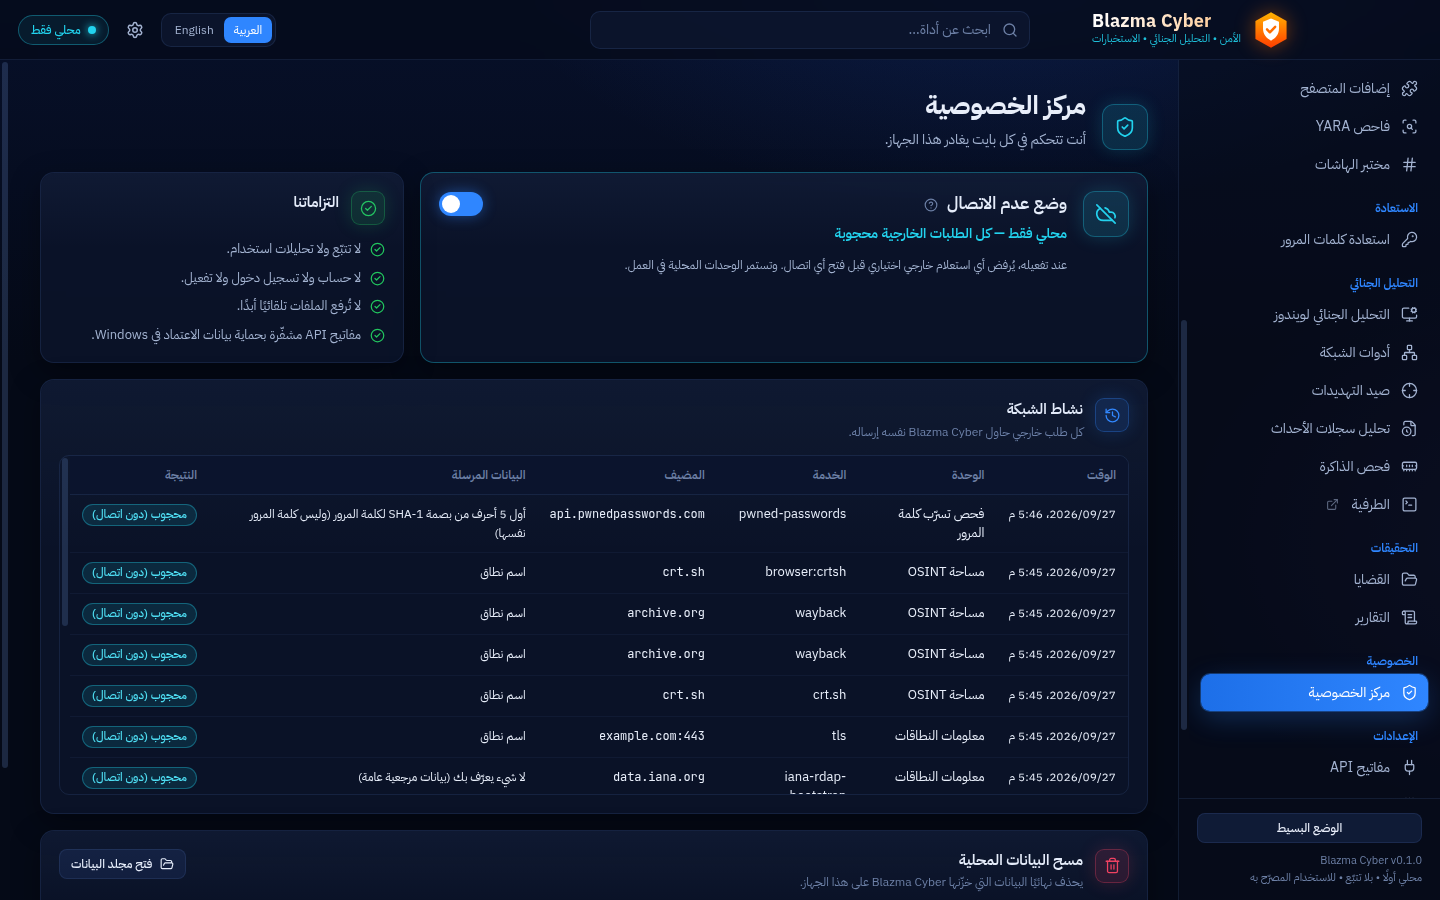
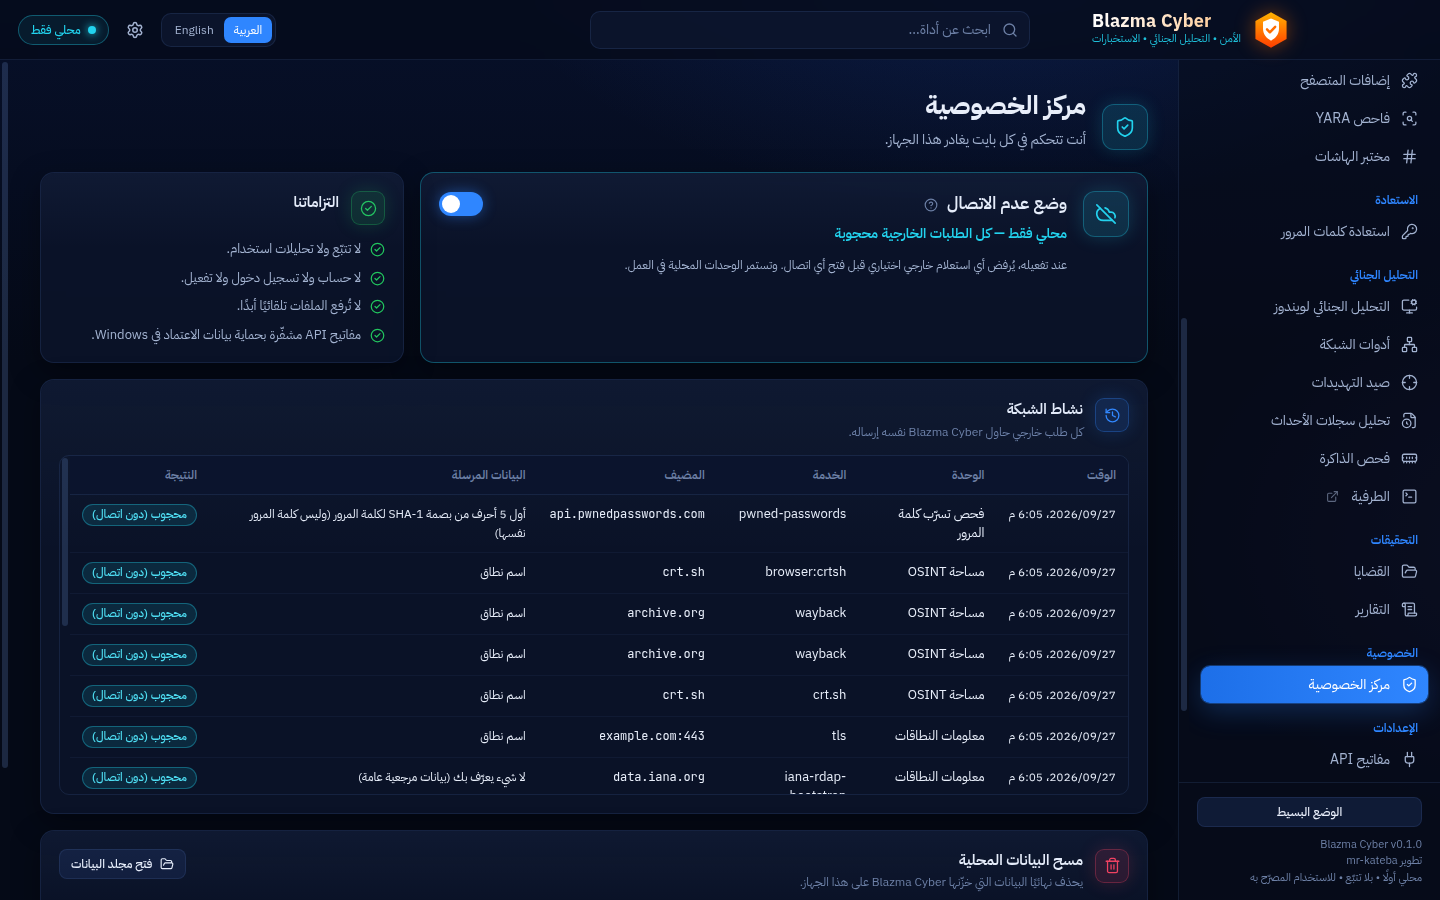
Show the developer (mr-kateba) in the app, installer and README; repository renamed to Blazma-Cyber
- About: Developer row and copyright line; language picker and sidebar
  footer show "By mr-kateba" / "تطوير mr-kateba"
- Installer/exe metadata: copyright and package author
- Links, update check and attestation commands use mr-kateba/Blazma-Cyber

Changed region(s): [[0.8125, 0.2178, 1.0, 0.9644], [0.9062, 0.0622, 1.0, 0.1867]]

diff --git a/tests/updates.test.ts b/tests/updates.test.ts
@@ -21,8 +21,8 @@ describe('Version comparison', () => {
   });
 
   it('picks the newest real release; drafts and non-version tags are ignored; the URL is built, never taken from the answer', () => {
-    expect(newestRelease(RELEASES, 'mr-kateba/-BLAZMA-CYBER')).toEqual({
-      tag: 'v0.2.0-beta.1', name: 'Beta 2', url: 'https://github.com/mr-kateba/-BLAZMA-CYBER/releases/tag/v0.2.0-beta.1', publishedAt: '2026-10-01T00:00:00Z', prerelease: true,
+    expect(newestRelease(RELEASES, 'mr-kateba/Blazma-Cyber')).toEqual({
+      tag: 'v0.2.0-beta.1', name: 'Beta 2', url: 'https://github.com/mr-kateba/Blazma-Cyber/releases/tag/v0.2.0-beta.1', publishedAt: '2026-10-01T00:00:00Z', prerelease: true,
     });
     expect(newestRelease({ message: 'Not Found' }, 'x/y')).toBeNull();
   });
@@ -38,9 +38,9 @@ describe('Manual update check', () => {
     const f = vi.fn(async (_u: string) => new Response(JSON.stringify(RELEASES), { status: 200 }));
     const { g, log } = gate(f);
     const r = await checkForUpdates(g, '0.1.0');
-    expect(f.mock.calls[0]![0]).toBe('https://api.github.com/repos/mr-kateba/-BLAZMA-CYBER/releases?per_page=20');
+    expect(f.mock.calls[0]![0]).toBe('https://api.github.com/repos/mr-kateba/Blazma-Cyber/releases?per_page=20');
     expect(r).toMatchObject({ current: '0.1.0', newer: true, latest: { tag: 'v0.2.0-beta.1' } });
-    expect(lastReleaseUrl()).toBe('https://github.com/mr-kateba/-BLAZMA-CYBER/releases/tag/v0.2.0-beta.1');
+    expect(lastReleaseUrl()).toBe('https://github.com/mr-kateba/Blazma-Cyber/releases/tag/v0.2.0-beta.1');
     expect(log[0]).toMatchObject({ host: 'api.github.com', dataKind: 'privacy.data.none', outcome: 'allowed' });
     expect((await checkForUpdates(gate(f).g, '0.2.0')).newer).toBe(false); // the final 0.2.0 is newer than its beta
   });

diff --git a/src/renderer/pages/Settings.tsx b/src/renderer/pages/Settings.tsx
@@ -1,6 +1,6 @@
 import { useEffect, useState } from 'react';
 import { Cpu, Info, KeyRound, Lock, RefreshCw, Settings as Gear, ShieldCheck } from 'lucide-react';
-import type { ApiKeyService, AppInfo, Settings, UpdateCheck } from '../../shared/api';
+import { APP_AUTHOR, APP_COPYRIGHT_YEAR, type ApiKeyService, type AppInfo, type Settings, type UpdateCheck } from '../../shared/api';
 import { Badge, Card, IconTile, Ltr, Notice, Tabs, Toggle, usePoll } from '../components/ui';
 import { useApp } from '../components/AppContext';
 import { useI18n } from '../i18n/I18nProvider';
@@ -271,6 +271,7 @@ function About({ info }: { info: AppInfo | null }) {
       {info && (
         <dl className="kv">
           <dt>{t('settings.version')}</dt><dd><Ltr>{info.version}</Ltr></dd>
+          <dt>{t('settings.developer')}</dt><dd><Ltr>{APP_AUTHOR}</Ltr></dd>
           <dt>{t('settings.platform')}</dt><dd><Ltr>{info.platform}</Ltr></dd>
           <dt>{t('settings.electron')}</dt><dd><Ltr>{info.electron}</Ltr></dd>
           <dt>{t('settings.dataDir')}</dt><dd><Ltr mono breakAll className="small">{info.dataDir}</Ltr>{info.portable && <div className="tiny dim">{t('settings.portableNote')}</div>}</dd>
@@ -278,6 +279,7 @@ function About({ info }: { info: AppInfo | null }) {
         </dl>
       )}
       <UpdateCheckRow />
+      <p className="small" style={{ marginBottom: 4 }}>{t('settings.copyright', { year: APP_COPYRIGHT_YEAR, author: APP_AUTHOR })}</p>
       <p className="small dim" style={{ marginBottom: 0 }}>{t('settings.license')}</p>
     </Card>
   );

diff --git a/src/renderer/pages/LanguagePicker.tsx b/src/renderer/pages/LanguagePicker.tsx
@@ -1,7 +1,7 @@
 import { useState } from 'react';
 import { Languages } from 'lucide-react';
 import type { Lang } from '../../core/i18n';
-import type { UiMode } from '../../shared/api';
+import { APP_AUTHOR, type UiMode } from '../../shared/api';
 import { Logo } from '../components/Logo';
 import { translatorFor } from '../i18n/I18nProvider';
 
@@ -20,6 +20,7 @@ export function LanguagePicker({ onPick }: { onPick: (l: Lang, mode: UiMode) => 
           <Logo size={72} className="brand-logo" />
           <div className="brand-name" style={{ fontSize: 26, marginTop: 14 }}>Blazma Cyber</div>
           <div className="brand-tag" style={{ marginTop: 4 }}>{t('app.tagline')}</div>
+          <div className="tiny dim" style={{ marginTop: 6 }}>{t('app.byline', { author: APP_AUTHOR })}</div>
           <h1 style={{ marginTop: 26, fontSize: 22, display: 'flex', gap: 10, justifyContent: 'center', alignItems: 'center' }}>
             <Languages size={22} color="var(--cyan)" />
             <span>{ar('langPicker.title')}</span>

diff --git a/src/renderer/Shell.tsx b/src/renderer/Shell.tsx
@@ -7,6 +7,7 @@ import { useI18n } from './i18n/I18nProvider';
 import { findItem, labelKeyFor, visibleNav, type PageId } from './nav';
 import { DownloadsOpenListener } from './components/DownloadsWatch';
 import { Dashboard } from './pages/Dashboard';
+import { APP_AUTHOR } from '../shared/api';
 
 // Every page except the dashboard is loaded on first visit (smaller startup bundle).
 const FileAnalyzer = lazy(() => import('./pages/FileAnalyzer').then((m) => ({ default: m.FileAnalyzer })));
@@ -293,6 +294,7 @@ export function Shell() {
             <div>
               <span className="ltr">Blazma Cyber v0.1.0</span>
             </div>
+            <div>{t('app.byline', { author: APP_AUTHOR })}</div>
             <div>{t('app.footer')}</div>
           </div>
         </aside>

diff --git a/src/main/services/updates.ts b/src/main/services/updates.ts
@@ -6,7 +6,7 @@ import type { NetworkGate } from '../../core/network-gate';
 import { compareSemver, newestRelease, parseSemver } from '../../core/version';
 import type { UpdateCheck } from '../../shared/api';
 
-export const UPDATE_REPO = 'mr-kateba/-BLAZMA-CYBER';
+export const UPDATE_REPO = 'mr-kateba/Blazma-Cyber';
 
 export class UpdateError extends Error {
   constructor(readonly code: string) {

diff --git a/src/shared/api.ts b/src/shared/api.ts
@@ -302,6 +302,10 @@ export interface TaskProgress {
   stage: 'hashing' | 'analyzing' | 'scanning' | 'done';
 }
 
+/** The developer shown in About, the first-launch screen and the installer metadata. */
+export const APP_AUTHOR = 'mr-kateba';
+export const APP_COPYRIGHT_YEAR = 2026;
+
 export interface AppInfo {
   version: string;
   platform: string;

diff --git a/README.ar.md b/README.ar.md
@@ -2,6 +2,8 @@
 
 # Blazma Cyber — الشرح بالعربي
 
+تطوير **[mr-kateba](https://github.com/mr-kateba)**
+
 **الأمن • التحليل الجنائي • الاستخبارات**
 
 برنامج سطح مكتب لـ Windows 10/11 للأمن السيبراني الدفاعي: تحليل الملفات، وفحص Defender وYARA،
@@ -17,16 +19,16 @@
 ## الطريقة 1: تنزيل المثبّت الجاهز (الأسهل)
 
 ### 1) التنزيل
-- افتح صفحة **[الإصدارات (Releases)](https://github.com/mr-kateba/-BLAZMA-CYBER/releases)** — تظهر أيضًا في
+- افتح صفحة **[الإصدارات (Releases)](https://github.com/mr-kateba/Blazma-Cyber/releases)** — تظهر أيضًا في
   يمين صفحة المستودع الرئيسية تحت **Releases**.
 - نزّل `BLAZMA-CYBER-0.1.0-x64-setup.exe` من قسم **Assets**. لا يحتاج تسجيل دخول.
 - رابط مباشر لآخر إصدار تجريبي (v0.1.0-beta.1):
-  https://github.com/mr-kateba/-BLAZMA-CYBER/releases/download/v0.1.0-beta.1/BLAZMA-CYBER-0.1.0-x64-setup.exe
+  https://github.com/mr-kateba/Blazma-Cyber/releases/download/v0.1.0-beta.1/BLAZMA-CYBER-0.1.0-x64-setup.exe
 
 #### (اختياري) تحقّق أن الملف سليم وأصلي
 - **البصمة:** في PowerShell: `Get-FileHash .\BLAZMA-CYBER-0.1.0-x64-setup.exe -Algorithm SHA256`
   ويجب أن تطابق القيمة في ملف `SHA256SUMS.txt` وفي صفحة الإصدار.
-- **شهادة مصدر البناء (من GitHub):** `gh attestation verify .\BLAZMA-CYBER-0.1.0-x64-setup.exe -R mr-kateba/-BLAZMA-CYBER`
+- **شهادة مصدر البناء (من GitHub):** `gh attestation verify .\BLAZMA-CYBER-0.1.0-x64-setup.exe -R mr-kateba/Blazma-Cyber`
   تثبت أن الملف بُني من هذا المستودع عبر GitHub Actions ولم يُعدَّل بعدها (تحتاج أداة [GitHub CLI](https://cli.github.com)).
 
 > نسخ أحدث للمطوّرين تُبنى تلقائيًا بعد كل تعديل في **Actions → CI → Artifacts →
@@ -61,7 +63,7 @@
 **المتطلبات:** Windows 10/11 64-bit، و[Node.js 20 أو أحدث](https://nodejs.org) (يُفضّل 22 LTS)، وGit.
 
 ```powershell
-git clone https://github.com/mr-kateba/-BLAZMA-CYBER.git Blazma-Cyber
+git clone https://github.com/mr-kateba/Blazma-Cyber.git Blazma-Cyber
 cd Blazma-Cyber
 .\Start-Blazma.ps1 -Install     # أول مرة: يثبّت الاعتماديات، يبني البرنامج، ويشغّله
 .\Start-Blazma.ps1              # المرات التالية
@@ -140,7 +142,7 @@ npm run dist:win     # الناتج: release\Blazma-Cyber-<الإصدار>-x64-s
 مخصّص للاستخدام الدفاعي على الأجهزة والشبكات والملفات التي تملكها أو المصرّح لك بفحصها.
 
 ## الترخيص
-حقوق النشر © 2026 mr-kateba ومساهمو Blazma Cyber.
+حقوق النشر © 2026 [mr-kateba](https://github.com/mr-kateba).
 
 البرنامج مفتوح المصدر بترخيص **GNU GPL الإصدار 3 أو أحدث** ([LICENSE](LICENSE)):
 - تقدر تستخدمه وتنسخه وتعدّله وتوزّعه بحرية.

diff --git a/.github/release-notes.md b/.github/release-notes.md
@@ -2,7 +2,7 @@
 
 ## إصدار تجريبي — Blazma Cyber
 
-منصة أمن سيبراني دفاعي لـ Windows 10/11، محلية أولًا، بالعربي والإنجليزي. الشرح الكامل: [README.ar.md](https://github.com/mr-kateba/-BLAZMA-CYBER/blob/claude/vibrant-sagan-xxz92l/README.ar.md)
+منصة أمن سيبراني دفاعي لـ Windows 10/11، محلية أولًا، بالعربي والإنجليزي. الشرح الكامل: [README.ar.md](https://github.com/mr-kateba/Blazma-Cyber/blob/claude/vibrant-sagan-xxz92l/README.ar.md)
 
 ### التثبيت
 1. نزّل `Blazma-Cyber-*-x64-setup.exe` من الملفات بالأسفل.
@@ -13,7 +13,7 @@
 
 ### التحقق من سلامة الملف
 - **شهادة مصدر البناء (Build provenance):** تثبت أن الملف بُني من هذا المستودع عبر GitHub Actions ولم يُعدَّل بعدها:
-  `gh attestation verify BLAZMA-CYBER-0.1.0-x64-setup.exe -R mr-kateba/-BLAZMA-CYBER`
+  `gh attestation verify BLAZMA-CYBER-0.1.0-x64-setup.exe -R mr-kateba/Blazma-Cyber`
 - **SHA-256:** قارن الناتج بالقيمة بالأسفل وبملف `SHA256SUMS.txt`:
   `Get-FileHash .\BLAZMA-CYBER-0.1.0-x64-setup.exe -Algorithm SHA256`
 
@@ -32,6 +32,6 @@ Privacy-first, local-first, bilingual (Arabic/English) defensive cybersecurity w
 
 - **Portable:** `Blazma-Cyber-*-x64-portable.zip` runs without installing (unzip anywhere, e.g. a USB drive); all data stays in `Blazma-data` next to the program.
 - **Unsigned** (no code-signing certificate yet): SmartScreen shows *Windows protected your PC* → **More info → Run anyway**. Per-user install, no administrator rights.
-- **Verify provenance:** `gh attestation verify BLAZMA-CYBER-0.1.0-x64-setup.exe -R mr-kateba/-BLAZMA-CYBER` (GitHub build-provenance attestation, Sigstore).
+- **Verify provenance:** `gh attestation verify BLAZMA-CYBER-0.1.0-x64-setup.exe -R mr-kateba/Blazma-Cyber` (GitHub build-provenance attestation, Sigstore).
 - **Verify integrity:** compare `Get-FileHash <file> -Algorithm SHA256` with `SHA256SUMS.txt` / the value below.
 - Verified automatically on real Windows (Server 2025) in CI; not yet hand-tested on a Windows 10/11 desktop (install/uninstall, title bar, Defender quick/full scans, real John/hashcat).

diff --git a/README.md b/README.md
@@ -6,6 +6,8 @@
 
 A privacy-first, local-first, bilingual (العربية / English) Windows cybersecurity workbench.
 
+By **[mr-kateba](https://github.com/mr-kateba)**
+
 **[الشرح بالعربي — التنزيل والتثبيت والتشغيل](README.ar.md)**
 
 </div>
@@ -102,10 +104,10 @@ The launcher checks prerequisites and prints clear errors (English + Arabic). It
 anything unless you pass `-Install`.
 
 ## Download the installer
-Get it from **[Releases](https://github.com/mr-kateba/-BLAZMA-CYBER/releases)** (latest pre-release:
-[`BLAZMA-CYBER-0.1.0-x64-setup.exe`](https://github.com/mr-kateba/-BLAZMA-CYBER/releases/download/v0.1.0-beta.1/BLAZMA-CYBER-0.1.0-x64-setup.exe)).
+Get it from **[Releases](https://github.com/mr-kateba/Blazma-Cyber/releases)** (latest pre-release:
+[`BLAZMA-CYBER-0.1.0-x64-setup.exe`](https://github.com/mr-kateba/Blazma-Cyber/releases/download/v0.1.0-beta.1/BLAZMA-CYBER-0.1.0-x64-setup.exe)).
 It is unsigned, so SmartScreen shows "Windows protected your PC" → **More info → Run anyway**.
-Verify it with `SHA256SUMS.txt` or `gh attestation verify <file> -R mr-kateba/-BLAZMA-CYBER`
+Verify it with `SHA256SUMS.txt` or `gh attestation verify <file> -R mr-kateba/Blazma-Cyber`
 (GitHub build provenance). Development builds: **Actions → CI → Artifacts** (sign-in, 14 days).
 Step-by-step in Arabic: [README.ar.md](README.ar.md).
 
@@ -161,7 +163,7 @@ Architecture: [docs/ARCHITECTURE.md](docs/ARCHITECTURE.md).
 Intended for defensive use on systems, networks and files you own or are authorized to assess.
 
 ## License
-Copyright © 2026 mr-kateba and Blazma Cyber contributors.
+Copyright © 2026 [mr-kateba](https://github.com/mr-kateba).
 
 Blazma Cyber is free software: you can redistribute it and/or modify it under the terms of the
 **GNU General Public License v3.0 or later** ([LICENSE](LICENSE)). It is distributed WITHOUT ANY

diff --git a/CLAUDE.md b/CLAUDE.md
@@ -183,3 +183,4 @@ API keys only via Electron `safeStorage` (DPAPI) — refuse to store if encrypti
 | 2026-09 | Updates: manual check only, link to the release page built in main (never the API's URL); no auto-download/installer | The app never downloads or runs binaries by itself; a signed-installer auto-update can come later |
 | 2026-09 | File/folder Defender scans use -DisableRemediation | Blazma reports; the user decides (quick/full follow Defender policy, stated in UI) |
 | 2026-09 | Branding: product name "Blazma Cyber" (not all-caps); logo = Blazma family hexagon (#FFB300→#FF3D00 gradient) with a white shield + check (`branding/`, `build/icon.*` via scripts/make-icon.mjs); env vars stay `BLAZMA_*` | Consistent with the sibling apps (Blazma Get, Blazma Boost); env names are an internal contract |
+| 2026-09 | Developer credit = `APP_AUTHOR` ('mr-kateba', src/shared/api.ts): About, language picker, sidebar footer, installer copyright, package author, README. Commits are authored as `mr-kateba <132195893+mr-kateba@users.noreply.github.com>` without AI co-author trailers | Owner's decision: the project is published under the owner's name |

diff --git a/docs/DEVELOPMENT.md b/docs/DEVELOPMENT.md
@@ -47,7 +47,7 @@ On Windows you can also use `.\Start-Blazma.ps1` (`-Install`, `-Dev`, `-SkipBuil
 `.github/workflows/release.yml` is started manually (**Actions → Release → Run workflow**, tag such
 as `v0.1.0-beta.1`). On a clean Windows runner it runs `npm run check`, builds the installer, runs
 the packaged-app smoke test, writes `SHA256SUMS.txt`, creates a GitHub build-provenance attestation
-(verify with `gh attestation verify <file> -R mr-kateba/-BLAZMA-CYBER`) and publishes a GitHub
+(verify with `gh attestation verify <file> -R mr-kateba/Blazma-Cyber`) and publishes a GitHub
 Release (pre-release by default) with notes from `.github/release-notes.md`.
 Code signing is optional: repository secrets `WIN_CSC_LINK` / `WIN_CSC_KEY_PASSWORD`; without them
 the installer is unsigned. Never use a self-signed certificate for public releases — Windows does
